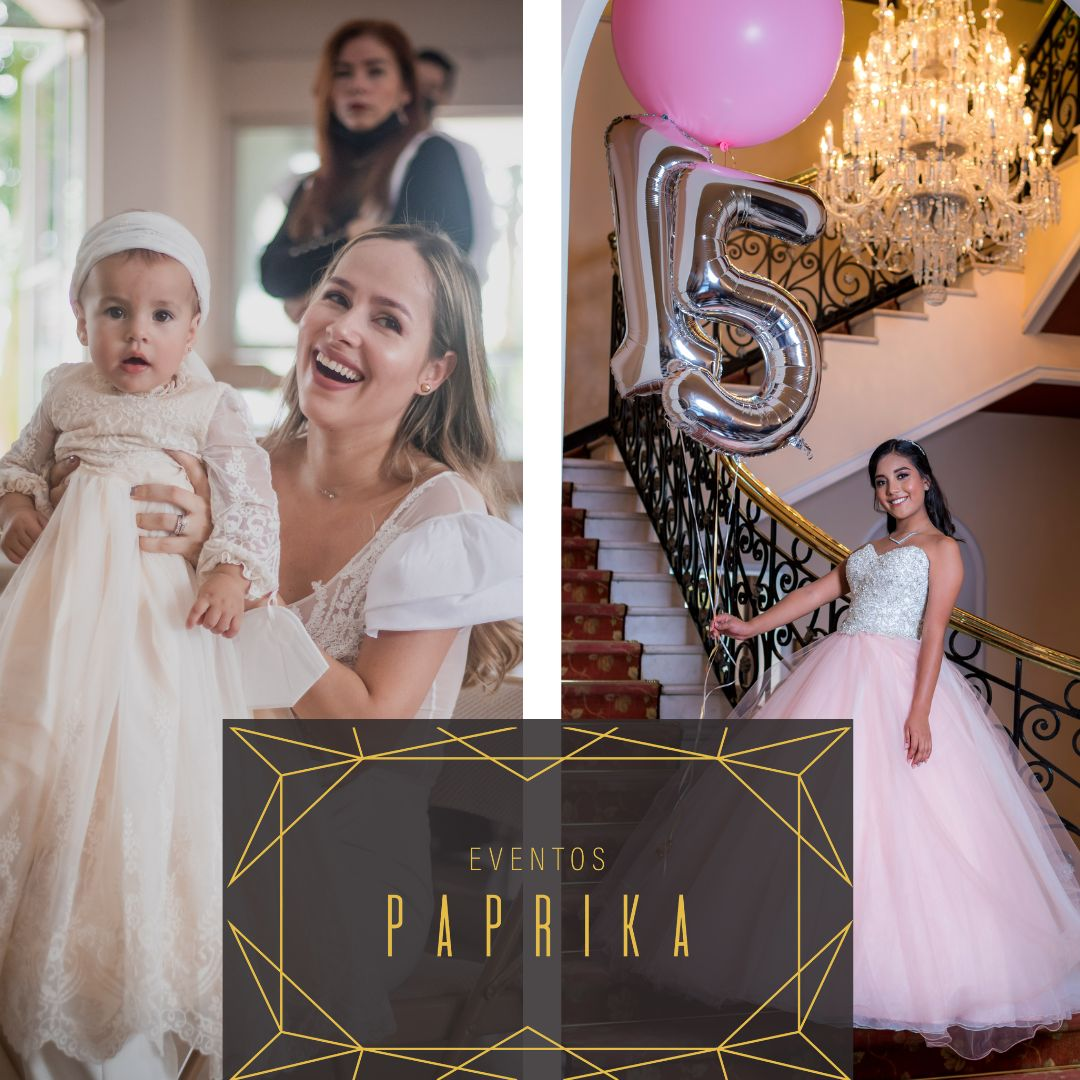
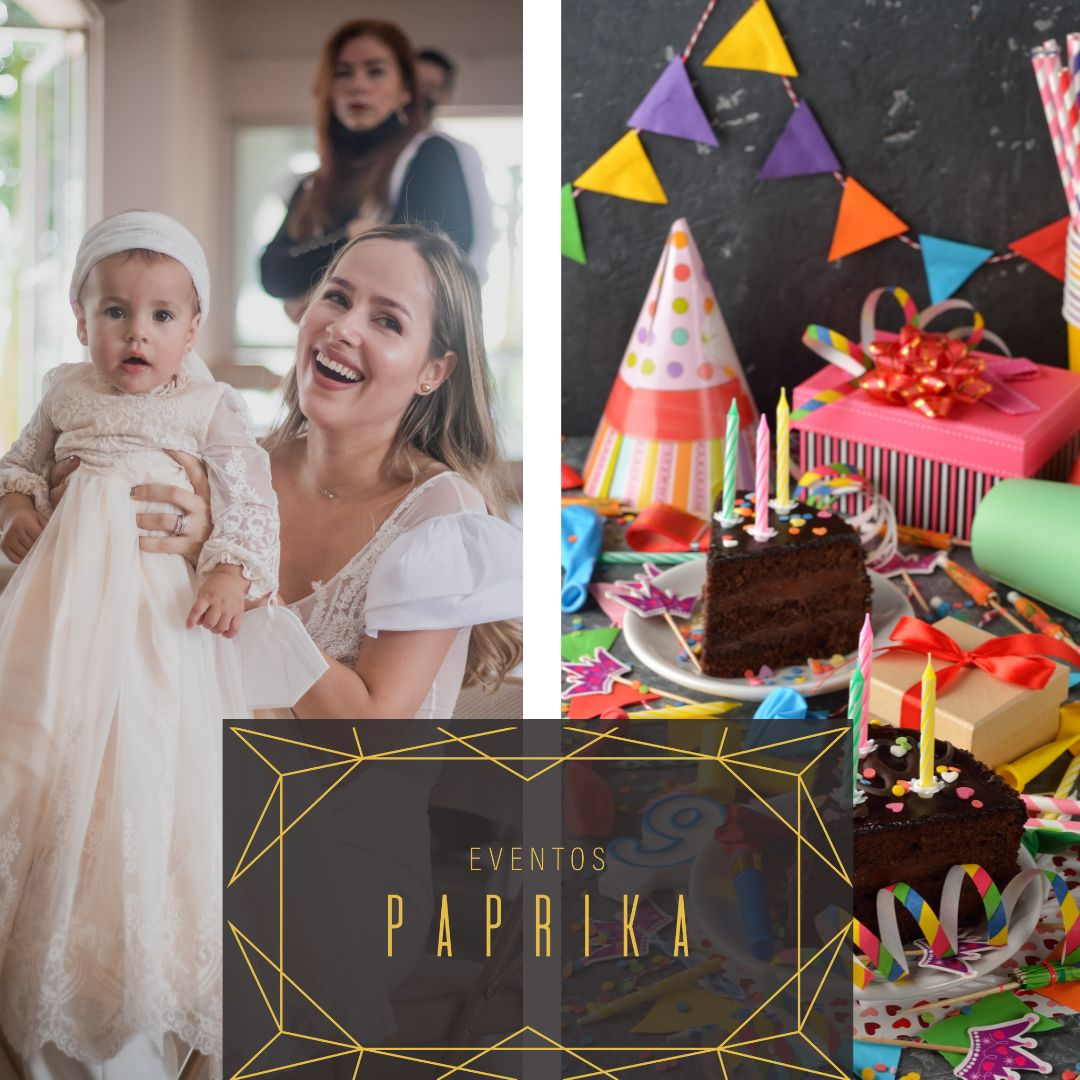
added new features

diff --git a/public/assets/css/style.css b/public/assets/css/style.css
@@ -179,6 +179,7 @@
 .titleClebra {
     padding-top: 5%;
     padding-bottom: 5%;
+    margin-bottom: -2%;
 
 }
 
@@ -188,6 +189,13 @@
 
 .bannerGrads {
     background-image: url("/assets/images/festejaG.jpg");
+    background-position: center;
+    background-repeat: no-repeat;
+    background-size: cover;
+    height: 15rem;
+}
+.bannerFiesta{
+    background-image: url("/assets/images/jovenesDeFiesta.jpg");
     background-position: center;
     background-repeat: no-repeat;
     background-size: cover;
